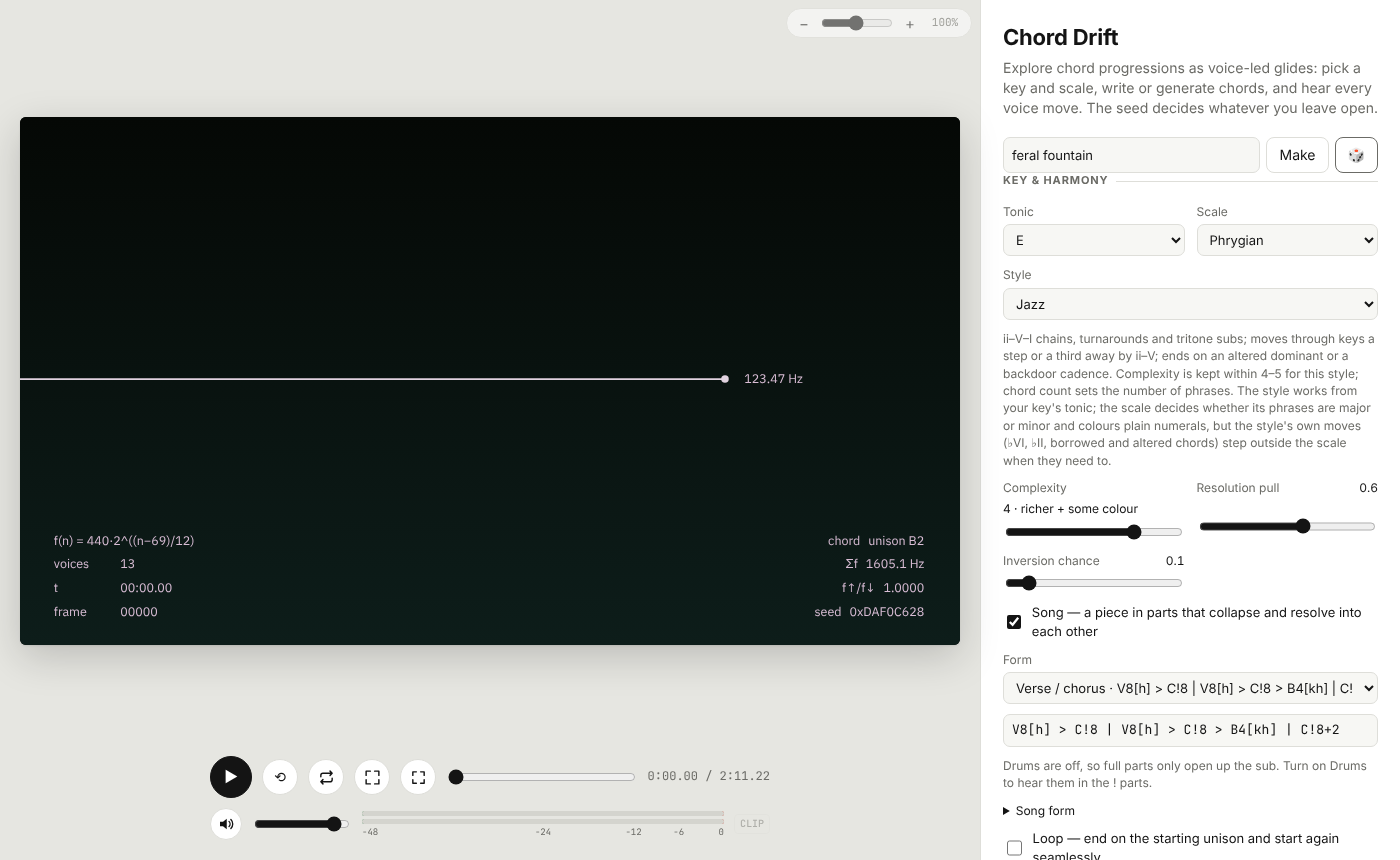
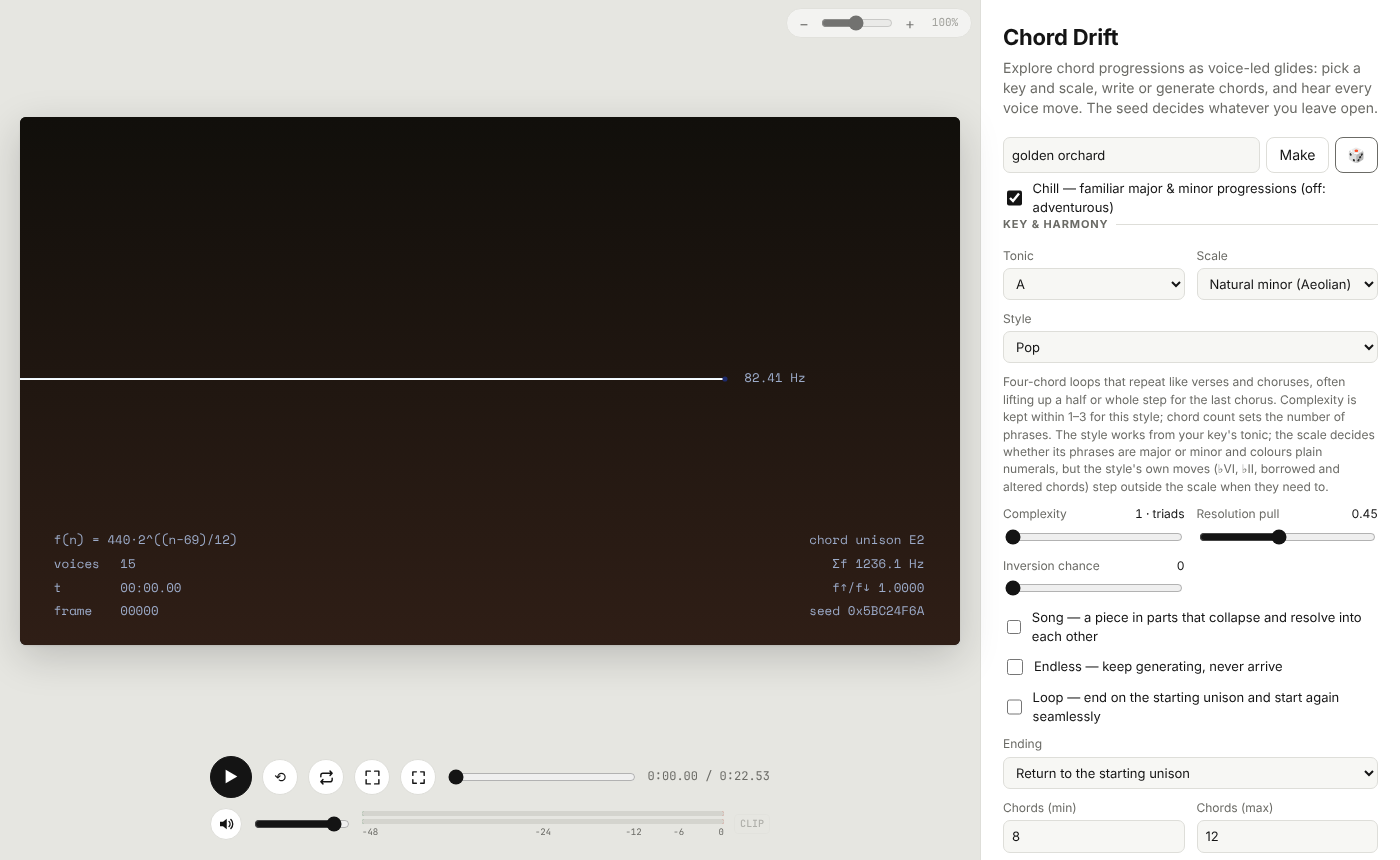
Chill vs adventurous word songs
A Chill toggle (default on, per device) for songs from words and the
randomizer: mostly major/minor (some dorian/mixolydian), lower
complexity, friendly styles, key-locked harmony with a firm resolution
pull, softer waves, fewer inversions and chops. Abrasive chords drop from
~16% to ~8%. Adventurous is unchanged (same draws), so existing #t= links
keep their songs; chill songs link as #w=words.

Claude-Session: https://claude.ai/code/session_01SeXxfVsgtPHH6w1wWvLbdi

Changed region(s): [[0.0, 0.1512, 0.9829, 1.0], [0.4914, 0.4233, 0.5836, 0.4535]]

diff --git a/src/engine/surprise.ts b/src/engine/surprise.ts
@@ -21,10 +21,32 @@ const weighted = <T>(r: Rng, xs: readonly [T, number][]): T => {
 };
 const between = (r: Rng, lo: number, hi: number, step = 0.05) => Math.round((lo + r() * (hi - lo)) / step) * step;
 
-/** Every setting of a song, drawn from one random stream. Leaves the output format alone. */
-export function surpriseConfig(seed: string | number, r: Rng): DeepPartial<ChordDriftConfig> {
-  const style = r() < 0.5 ? 'none' : pick(r, STYLE_IDS.filter((s) => s !== 'none') as StyleId[]);
-  const scale = weighted(r, [
+/**
+ * How far a word song may wander. Chill keeps to familiar ground — major and minor (with the odd
+ * dorian or mixolydian), simpler chords, friendly styles, key-locked harmony and a firm pull home.
+ * Adventurous opens up every scale, style and generator.
+ */
+export type SongMood = 'chill' | 'adventurous';
+
+/** Friendly styles for chill songs (the others lean dark, jazzy or exotic). */
+const CHILL_STYLES: StyleId[] = ['pop', 'classical', 'cinematic', 'gospel'];
+
+/**
+ * Every setting of a song, drawn from one random stream. Leaves the output format alone. Both
+ * moods make the same draws in the same order (so adding chill didn't change adventurous songs).
+ */
+export function surpriseConfig(seed: string | number, r: Rng, mood: SongMood = 'adventurous'): DeepPartial<ChordDriftConfig> {
+  const chill = mood === 'chill';
+  const styleRoll = r();
+  const style = styleRoll < 0.5 ? 'none' : chill ? pick(r, CHILL_STYLES) : pick(r, STYLE_IDS.filter((s) => s !== 'none') as StyleId[]);
+  const scale = chill
+    ? weighted(r, [
+        ['major', 5],
+        ['minor', 4],
+        ['dorian', 1],
+        ['mixolydian', 0.8],
+      ] as [string, number][])
+    : weighted(r, [
     ['major', 3],
     ['minor', 3],
     ['dorian', 2.5],
@@ -41,14 +63,14 @@ export function surpriseConfig(seed: string | number, r: Rng): DeepPartial<Chord
     ['wholeTone', 0.2],
   ] as [string, number][]);
   const transition = weighted(r, [
-    ['glide', 6],
+    ['glide', chill ? 7 : 6],
     ['swell', 2],
-    ['pluck', 2],
+    ['pluck', chill ? 1 : 2],
   ] as ['glide' | 'swell' | 'pluck', number][]);
   const song = r() < 0.35;
-  const drums = r() < 0.45;
-  const drumPreset = pick(r, DRUM_PRESETS);
-  const kit = pick(r, ['witch', '808', 'acoustic', 'industrial', 'jungle'] as KitId[]);
+  const drums = r() < (chill ? 0.35 : 0.45);
+  const drumPreset = pick(r, chill ? DRUM_PRESETS.filter((p) => !/trap|breakbeat|jungle/i.test(p.name)) : DRUM_PRESETS);
+  const kit = pick(r, (chill ? ['808', 'acoustic', '808', 'acoustic', 'witch'] : ['witch', '808', 'acoustic', 'industrial', 'jungle']) as KitId[]);
   const view = weighted(r, [
     ['timeline', 6],
     ['spiral', 3],
@@ -65,25 +87,25 @@ export function surpriseConfig(seed: string | number, r: Rng): DeepPartial<Chord
     scale,
     style,
     mode: weighted(r, [
-      ['scale', 4],
-      ['drift', 3],
-      ['voiceled', 2],
+      ['scale', chill ? 6 : 4],
+      ['drift', chill ? 1.5 : 3],
+      ['voiceled', chill ? 0 : 2],
     ] as ['scale' | 'drift' | 'voiceled', number][]),
     // Within the style's range when there is one (the style would clamp it anyway).
     complexity: ((c: number) => (style === 'none' ? c : Math.max(STYLES[style].complexity[0], Math.min(STYLES[style].complexity[1], c))))(
       weighted(r, [
-        [1, 1],
-        [2, 2],
-        [3, 3],
-        [4, 2],
-        [5, 1],
+        [1, chill ? 1.2 : 1],
+        [2, chill ? 3.5 : 2],
+        [3, chill ? 1.5 : 3],
+        [4, chill ? 0 : 2],
+        [5, chill ? 0 : 1],
       ] as [number, number][]),
     ),
     voices: pick(r, [7, 9, 11, 13, 13, 15]),
-    smoothness: between(r, 0.4, 2, 0.1),
-    resolution: between(r, 0.15, 0.75),
-    driftProbability: between(r, 0.1, 0.45),
-    voicing: { inversion: r() < 0.5 ? 0 : between(r, 0.1, 0.4) },
+    smoothness: chill ? between(r, 0.8, 2, 0.1) : between(r, 0.4, 2, 0.1),
+    resolution: chill ? between(r, 0.4, 0.8) : between(r, 0.15, 0.75),
+    driftProbability: chill ? between(r, 0.05, 0.2) : between(r, 0.1, 0.45),
+    voicing: { inversion: r() < (chill ? 0.75 : 0.5) ? 0 : chill ? between(r, 0.1, 0.25) : between(r, 0.1, 0.4) },
     endNote: pick(r, ['tonic+1oct', 'tonic+1oct', 'tonic+2oct', 'tonic', 'tonic-2oct', 'start']),
     loop: r() < 0.2,
     endless: false,
@@ -106,13 +128,13 @@ export function surpriseConfig(seed: string | number, r: Rng): DeepPartial<Chord
       // Double time only where it stays sane (about 180 bpm at most).
       double: kit === 'jungle' && r() < 0.6 && tempo <= 90,
     },
-    chop: { enabled: r() < 0.15, pattern: pick(r, CHOP_PRESETS).pattern, drums: true, chords: r() < 0.4, melody: false },
+    chop: { enabled: r() < (chill ? 0.04 : 0.15), pattern: pick(r, CHOP_PRESETS).pattern, drums: true, chords: r() < 0.4, melody: false },
     audio: {
       wave: weighted(r, [
         ['warm', 3],
         ['triangle', 3],
         ['sine', 2],
-        ['sawtooth', 1],
+        ['sawtooth', chill ? 0 : 1],
       ] as ['warm' | 'triangle' | 'sine' | 'sawtooth', number][]),
       reverb: between(r, 0.2, 0.8),
       lowpass: Math.round(between(r, 2800, 10000, 100)),
@@ -133,8 +155,8 @@ export function surpriseConfig(seed: string | number, r: Rng): DeepPartial<Chord
   return out;
 }
 
-/** A song from any text: the same words always make the same song. */
-export function songFromText(text: string): DeepPartial<ChordDriftConfig> {
+/** A song from any text: the same words (and mood) always make the same song. */
+export function songFromText(text: string, mood: SongMood = 'adventurous'): DeepPartial<ChordDriftConfig> {
   const t = text.trim();
-  return surpriseConfig(t, stream(hashSeed(0, t), 'surprise'));
+  return surpriseConfig(t, stream(hashSeed(0, t), 'surprise'), mood);
 }

diff --git a/src/project.ts b/src/project.ts
@@ -1,6 +1,6 @@
 import { compressToEncodedURIComponent, decompressFromEncodedURIComponent } from 'lz-string';
 /** Project save/load: browser library (localStorage), JSON files, and share links. */
-import { DEFAULT_CONFIG, resolveConfig, songFromText, type ChordDriftConfig, type DeepPartial } from './engine';
+import { DEFAULT_CONFIG, resolveConfig, songFromText, type ChordDriftConfig, type DeepPartial, type SongMood } from './engine';
 
 export interface Project {
   app: 'chord-drift';
@@ -126,8 +126,8 @@ function seedWords(seed: string | number): string | null {
 }
 
 /** The song those words make, in the given output format (what "Make" produces). */
-function wordsBase(words: string, video: { width: number; height: number; fps: number }): ChordDriftConfig {
-  const patch = songFromText(words);
+function wordsBase(words: string, video: { width: number; height: number; fps: number }, mood: SongMood): ChordDriftConfig {
+  const patch = songFromText(words, mood);
   return resolveConfig({ ...patch, video: { ...(patch.video ?? {}), width: video.width, height: video.height, fps: video.fps } } as DeepPartial<ChordDriftConfig>);
 }
 
@@ -141,14 +141,18 @@ export function encodeShare(config: ChordDriftConfig): string {
   const plain = Object.keys(diff).length ? 'y=' + compressToEncodedURIComponent(JSON.stringify(pack(diff))) : '';
   const words = seedWords(config.seed);
   if (!words) return plain;
-  const d = configDiff(config, wordsBase(words, config.video));
-  const viaWords = encodeTextShare(words) + (Object.keys(d).length ? '&d=' + compressToEncodedURIComponent(JSON.stringify(pack(d))) : '');
-  return plain && plain.length <= viaWords.length ? plain : viaWords;
+  let best = plain;
+  for (const mood of ['chill', 'adventurous'] as SongMood[]) {
+    const d = configDiff(config, wordsBase(words, config.video, mood));
+    const viaWords = encodeTextShare(words, mood) + (Object.keys(d).length ? '&d=' + compressToEncodedURIComponent(JSON.stringify(pack(d))) : '');
+    if (!best || viaWords.length < best.length) best = viaWords;
+  }
+  return best;
 }
 
-/** The words of a t=… share code, or null. */
+/** The words of a word-song share code (w=… chill, t=… adventurous), or null. */
 export function shareText(hash: string): string | null {
-  if (!hash.startsWith('t=')) return null;
+  if (!hash.startsWith('t=') && !hash.startsWith('w=')) return null;
   try {
     const end = hash.indexOf('&');
     return decodeURIComponent(hash.slice(2, end >= 0 ? end : undefined).replace(/\+/g, ' ')).trim() || null;
@@ -157,9 +161,14 @@ export function shareText(hash: string): string | null {
   }
 }
 
-/** Share code for a song made from words. */
-export function encodeTextShare(text: string): string {
-  return 't=' + encodeURIComponent(text.trim()).replace(/%20/g, '+');
+/** The mood of a word-song share code. */
+export function shareMood(hash: string): SongMood | null {
+  return hash.startsWith('w=') ? 'chill' : hash.startsWith('t=') ? 'adventurous' : null;
+}
+
+/** Share code for a song made from words: w= for chill, t= for adventurous. */
+export function encodeTextShare(text: string, mood: SongMood = 'adventurous'): string {
+  return (mood === 'chill' ? 'w=' : 't=') + encodeURIComponent(text.trim()).replace(/%20/g, '+');
 }
 
 export function decodeShare(hash: string): DeepPartial<ChordDriftConfig> | null {
@@ -181,8 +190,8 @@ export function decodeShare(hash: string): DeepPartial<ChordDriftConfig> | null 
       return null;
     }
   }
-  // A song from words (t=…), plus any changes to it (&d=…).
-  if (hash.startsWith('t=')) {
+  // A song from words (w=… chill, t=… adventurous), plus any changes to it (&d=…).
+  if (hash.startsWith('t=') || hash.startsWith('w=')) {
     const text = shareText(hash);
     if (!text) return null;
     const amp = hash.indexOf('&d=');
@@ -194,7 +203,7 @@ export function decodeShare(hash: string): DeepPartial<ChordDriftConfig> | null 
         changes = {};
       }
     }
-    return merge(songFromText(text), changes) as DeepPartial<ChordDriftConfig>;
+    return merge(songFromText(text, shareMood(hash) ?? 'adventurous'), changes) as DeepPartial<ChordDriftConfig>;
   }
   const params = new URLSearchParams(hash);
   const c = params.get('c');

diff --git a/src/main.ts b/src/main.ts
@@ -40,12 +40,13 @@ import {
   voicingRules,
   type ChordDriftConfig,
   type DeepPartial,
+  type SongMood,
   type Theme,
   type Score,
 } from './engine';
 import { ensureFont } from './render/fonts';
 import { frameCount, renderFrame, themeBackground } from './render/renderer';
-import { decodeShare, encodeShare, exportProject, listProjects, parseProject, saveProject, deleteProject, shareText } from './project';
+import { decodeShare, encodeShare, shareMood, exportProject, listProjects, parseProject, saveProject, deleteProject, shareText } from './project';
 
 const fontsReady = (async () => {
   try {
@@ -721,7 +722,8 @@ function startApp() {
   function makeSong(text: string) {
     const t = text.trim();
     if (!t) return;
-    const patch = songFromText(t);
+    const mood: SongMood = $<HTMLInputElement>('#mood').checked ? 'chill' : 'adventurous';
+    const patch = songFromText(t, mood);
     const keep = { width: state.video.width, height: state.video.height, fps: state.video.fps };
     state = resolveConfig({ ...patch, video: { ...(patch.video ?? {}), ...keep } } as DeepPartial<ChordDriftConfig>);
     applyAutoFormat();
@@ -730,6 +732,20 @@ function startApp() {
     $<HTMLInputElement>('#words').value = t;
     setStatus(`"${t}": ${score.keyName} ${score.scaleName}${state.style !== 'none' ? `, ${STYLES[state.style].name}` : ''} — ${score.chords.slice(0, 6).map((c) => c.name).join(' → ')}${score.chords.length > 6 ? ' …' : ''}`);
   }
+  const moodBox = $<HTMLInputElement>('#mood');
+  try {
+    const saved = localStorage.getItem('chord-drift.mood');
+    if (saved) moodBox.checked = saved === 'chill';
+  } catch {
+    /* storage unavailable */
+  }
+  moodBox.addEventListener('change', () => {
+    try {
+      localStorage.setItem('chord-drift.mood', moodBox.checked ? 'chill' : 'adventurous');
+    } catch {
+      /* ignore */
+    }
+  });
   $<HTMLFormElement>('#words-form').addEventListener('submit', (e) => {
     e.preventDefault();
     makeSong($<HTMLInputElement>('#words').value);
@@ -1303,7 +1319,10 @@ function startApp() {
   state = resolveConfig(shared ?? {});
   applyAutoFormat();
   const sharedWords = shareText(location.hash.slice(1));
-  if (sharedWords) $<HTMLInputElement>('#words').value = sharedWords;
+  if (sharedWords) {
+    $<HTMLInputElement>('#words').value = sharedWords;
+    $<HTMLInputElement>('#mood').checked = shareMood(location.hash.slice(1)) === 'chill';
+  }
   syncThemeUi();
   writeForm();
   refreshProjects();

diff --git a/tests/project.test.ts b/tests/project.test.ts
@@ -93,3 +93,27 @@ describe('compact links', () => {
     expect(code.length).toBeLessThan(old.length);
   });
 });
+
+describe('song moods', () => {
+  it('keeps chill songs on familiar ground, and leaves adventurous songs as they were', async () => {
+    const { songFromText } = await import('../src/engine');
+    for (const words of ['quiet harbor', 'neon chapel', 'salt meadow', 'feral comet', 'paper reef', 'lunar motel']) {
+      const c = resolveConfig(songFromText(words, 'chill'));
+      expect(['major', 'minor', 'dorian', 'mixolydian']).toContain(c.scale);
+      expect(c.complexity).toBeLessThanOrEqual(4);
+      expect(c.mode).not.toBe('voiceled');
+      expect(['none', 'pop', 'classical', 'cinematic', 'gospel']).toContain(c.style);
+    }
+    const adv = resolveConfig(songFromText('rusted comet'));
+    expect([adv.key, adv.scale, adv.style, adv.rhythm.tempo]).toEqual(['E', 'major', 'cinematic', 97]);
+  });
+
+  it('links chill songs as w= and round-trips them', async () => {
+    const { songFromText } = await import('../src/engine');
+    const { shareMood } = await import('../src/project');
+    const c = resolveConfig(songFromText('quiet harbor', 'chill'));
+    expect(encodeShare(c)).toBe('w=quiet+harbor');
+    expect(shareMood('w=quiet+harbor')).toBe('chill');
+    expect(resolveConfig(decodeShare('w=quiet+harbor')!)).toEqual(c);
+  });
+});

diff --git a/index.html b/index.html
@@ -55,6 +55,10 @@
             <button type="submit" title="Make a song from these words (the same words always make the same song)">Make</button>
             <button type="button" id="surprise" title="Randomize everything: a song from a few random words">🎲</button>
           </form>
+          <label class="check words-mood" title="Chill keeps word songs on familiar ground: major and minor (now and then dorian or mixolydian), simpler chords, friendly styles, a firm pull home. Off = adventurous: every scale, style and generator.">
+            <input id="mood" type="checkbox" checked />
+            <span>Chill — familiar major &amp; minor progressions (off: adventurous)</span>
+          </label>
         </header>
 
         <form id="controls" autocomplete="off">

diff --git a/src/style.css b/src/style.css
@@ -339,3 +339,5 @@ input[type='color'] { width: 100%; height: 30px; padding: 2px; cursor: pointer; 
 
 .words { display: flex; gap: 6px; margin-top: 12px; }
 .words input { flex: 1; min-width: 0; }
+
+.words-mood { margin-top: 6px; font-size: 12.5px; }

diff --git a/README.md b/README.md
@@ -168,7 +168,7 @@ With release-and-swell changes, chords grow in and fade out on the spiral too. T
 
 **Titles.** The header, episode number and name are empty by default, and only what you fill in is drawn. If you set only a name, it takes the header's place.
 
-**Songs from words.** Type anything in the box at the top of the panel ("rain on a tin roof at 3am") and press Make: the words seed a whole song, not just the chords (scale, style, generator, rhythm, drums, sound, theme and view), and the same words always make the same song. 🎲 next to it randomizes everything by making a song from two random words. The link for such a song is just the words (`#t=rain+on+a+tin+roof+at+3am`); if you change things, the link becomes the words plus only what you changed (`#t=midnight+motel&d=…`), which stays short.
+**Songs from words.** Type anything in the box at the top of the panel ("rain on a tin roof at 3am") and press Make: the words seed a whole song, not just the chords (scale, style, generator, rhythm, drums, sound, theme and view), and the same words always make the same song. 🎲 next to it randomizes everything by making a song from two random words. **Chill** (ticked by default, remembered per device) keeps word songs on familiar ground: mostly major and minor (now and then dorian or mixolydian), simpler chords, friendly styles (pop, classical, cinematic, gospel), key-locked harmony with a firm pull home, softer waves and fewer inversions, which halves the abrasive chords (♯11, ♭5, augmented, altered…). Untick it for **adventurous**: every scale, style and generator. Chill songs link as `#w=words`, adventurous ones as `#t=words`. The link for such a song is just the words (`#t=rain+on+a+tin+roof+at+3am`); if you change things, the link becomes the words plus only what you changed (`#t=midnight+motel&d=…`), which stays short.
 
 **Projects.** Save to the browser's project list, export or import `.chorddrift.json` files, or copy a share link: the URL holds every setting that differs from the defaults with short key names, compressed (`#y=…`; older `#z=…` and `#c=…` links still open), so a link always reopens the exact piece.
 
